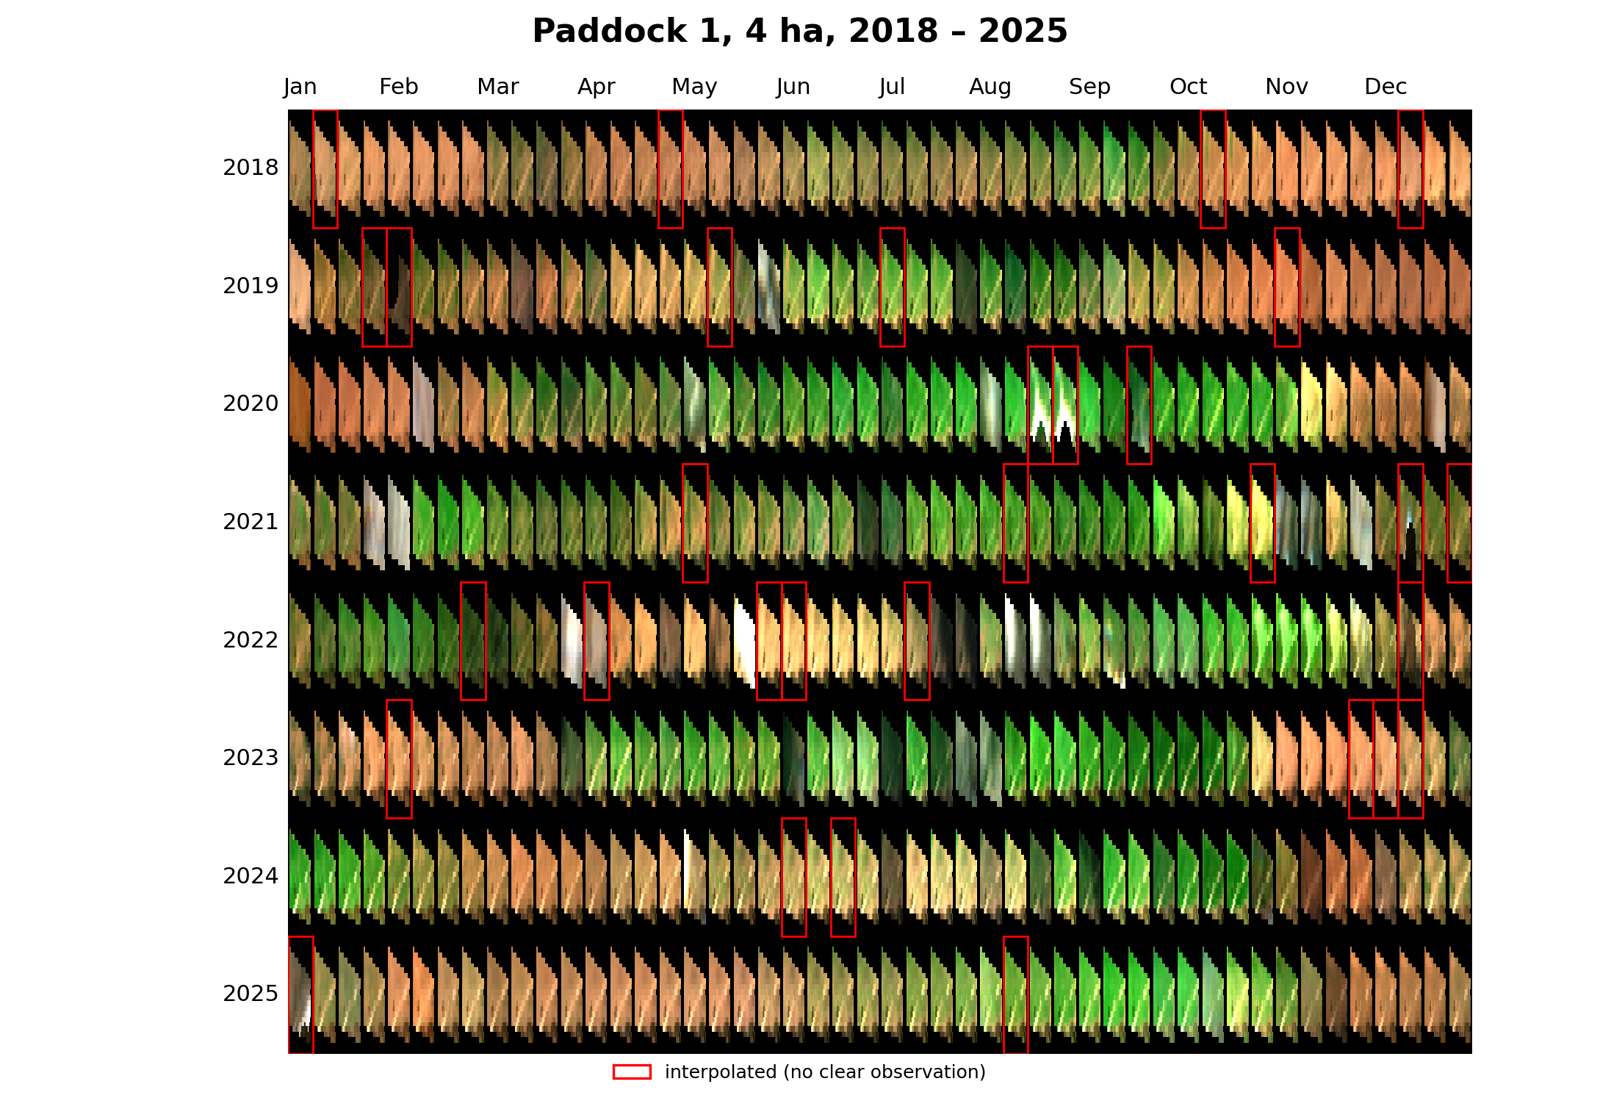
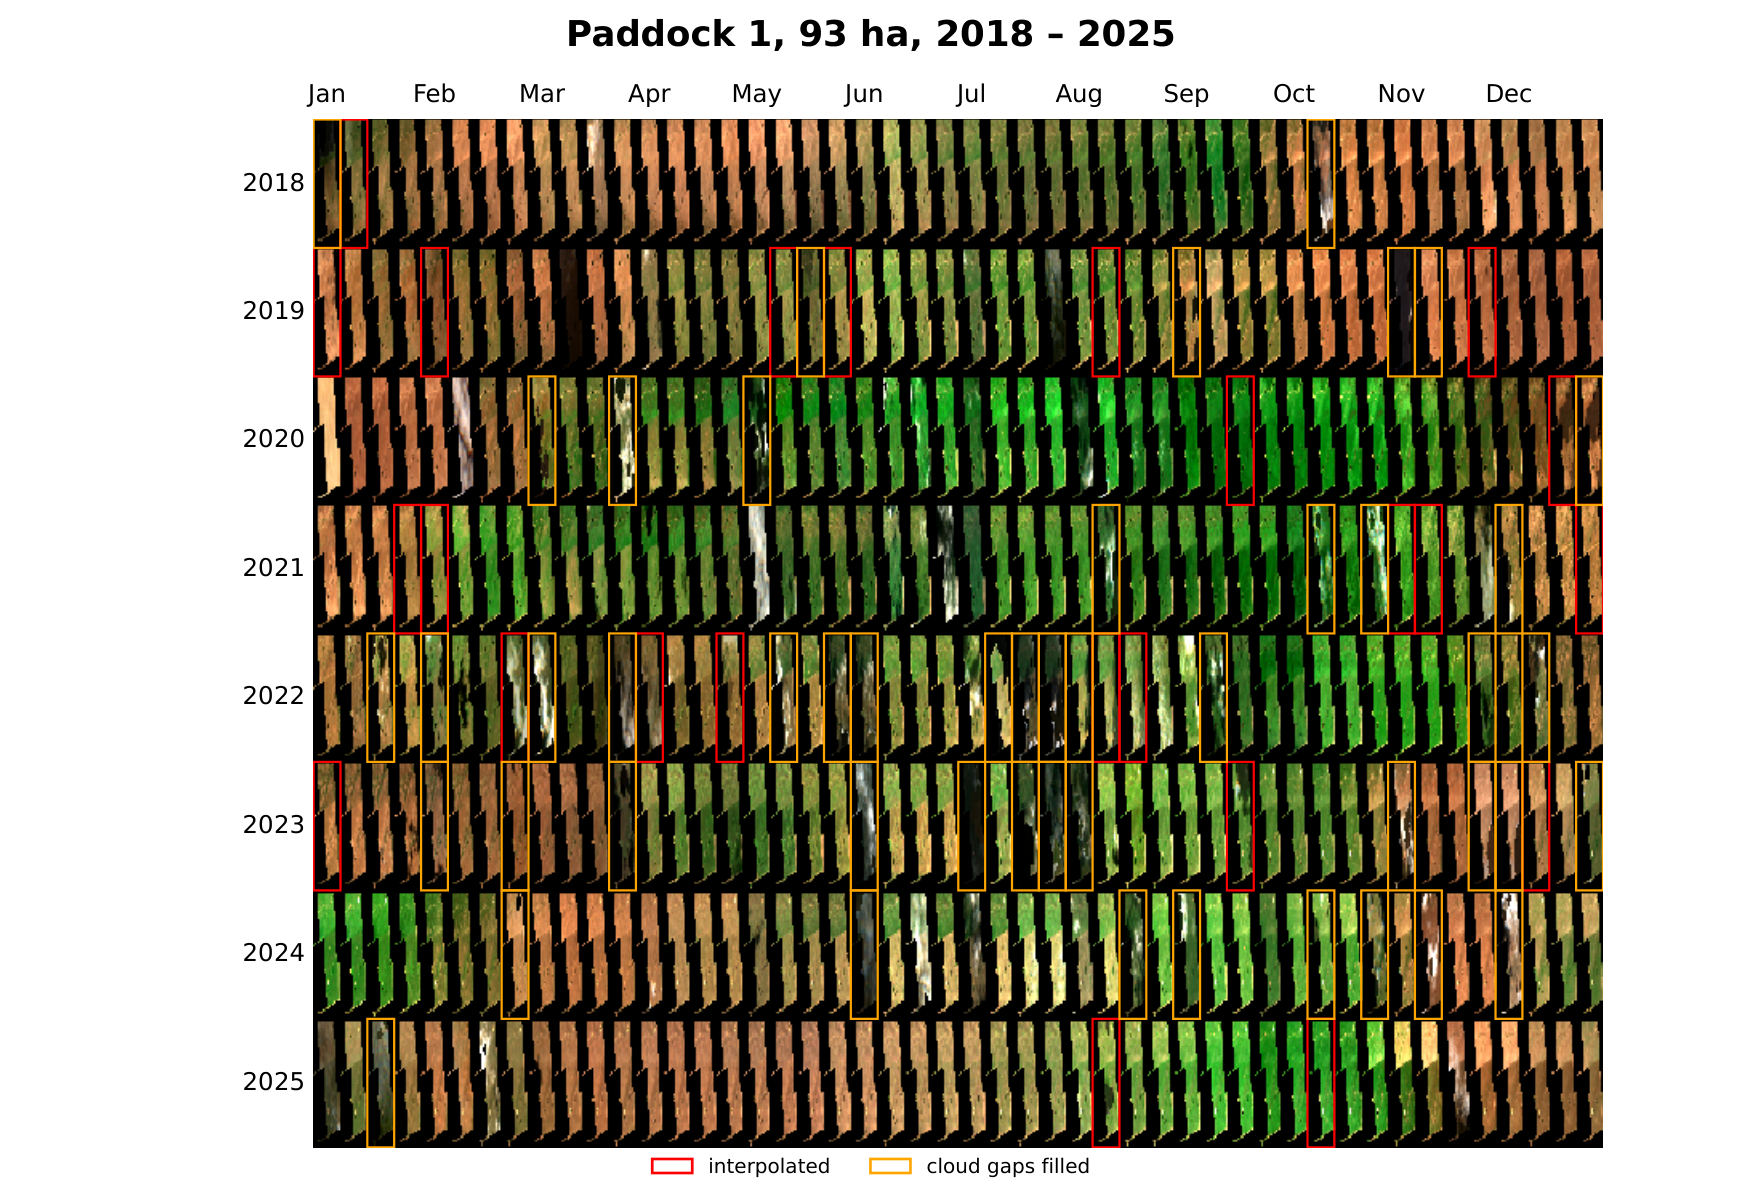
Docs: two-label calendar legend (red = interpolated, orange = gap-filled)
calendar.png regenerated from the rebuilt Milgadara report; captions
updated to describe both outline colours.

Claude-Session: https://claude.ai/code/session_01RexZqLrfvanzxDinERDbqG

diff --git a/docs/index.md b/docs/index.md
@@ -104,11 +104,12 @@ are returned as DataFrames and written to a CSV covering all years.
 
 Calendar plots show one page per paddock, one row per year, and 48
 thumbnail slots across the season. Slots without a clear observation
-are interpolated and outlined in red.
+are interpolated and outlined in red; mostly-clear slots whose
+cloud-masked pixels were gap-filled are outlined in orange.
 
 <figure markdown>
   ![Per-paddock thumbnail calendar](assets/calendar.png)
-  <figcaption>Calendar page for one paddock over eight years; red boxes mark interpolated slots</figcaption>
+  <figcaption>Calendar page for one paddock over eight years; red = interpolated, orange = cloud gaps filled</figcaption>
 </figure>
 
 ### Environmental context

diff --git a/docs/pipeline.md b/docs/pipeline.md
@@ -163,7 +163,8 @@ curves from different years align on a common DOY axis.
 
 ![Per-paddock thumbnail calendar](assets/calendar.png)
 *One page per paddock: each cell is the paddock's true-colour thumbnail
-at that point in the season; red boxes mark interpolated (cloudy) slots.*
+at that point in the season. Red outlines mark fully interpolated slots;
+orange outlines mark observations whose cloud-masked pixels were gap-filled.*
 
 ### Stages 15–16: Phenology
 

diff --git a/docs/api/plotting.md b/docs/api/plotting.md
@@ -5,7 +5,7 @@ review-grade output PaddockTS produces.
 
 <figure markdown>
   ![Per-paddock thumbnail calendar — red boxes mark interpolated slots](../assets/calendar.png)
-  <figcaption>Per-paddock thumbnail calendar — red boxes mark interpolated slots</figcaption>
+  <figcaption>Per-paddock thumbnail calendar; red = interpolated, orange = cloud gaps filled</figcaption>
 </figure>
 
 
